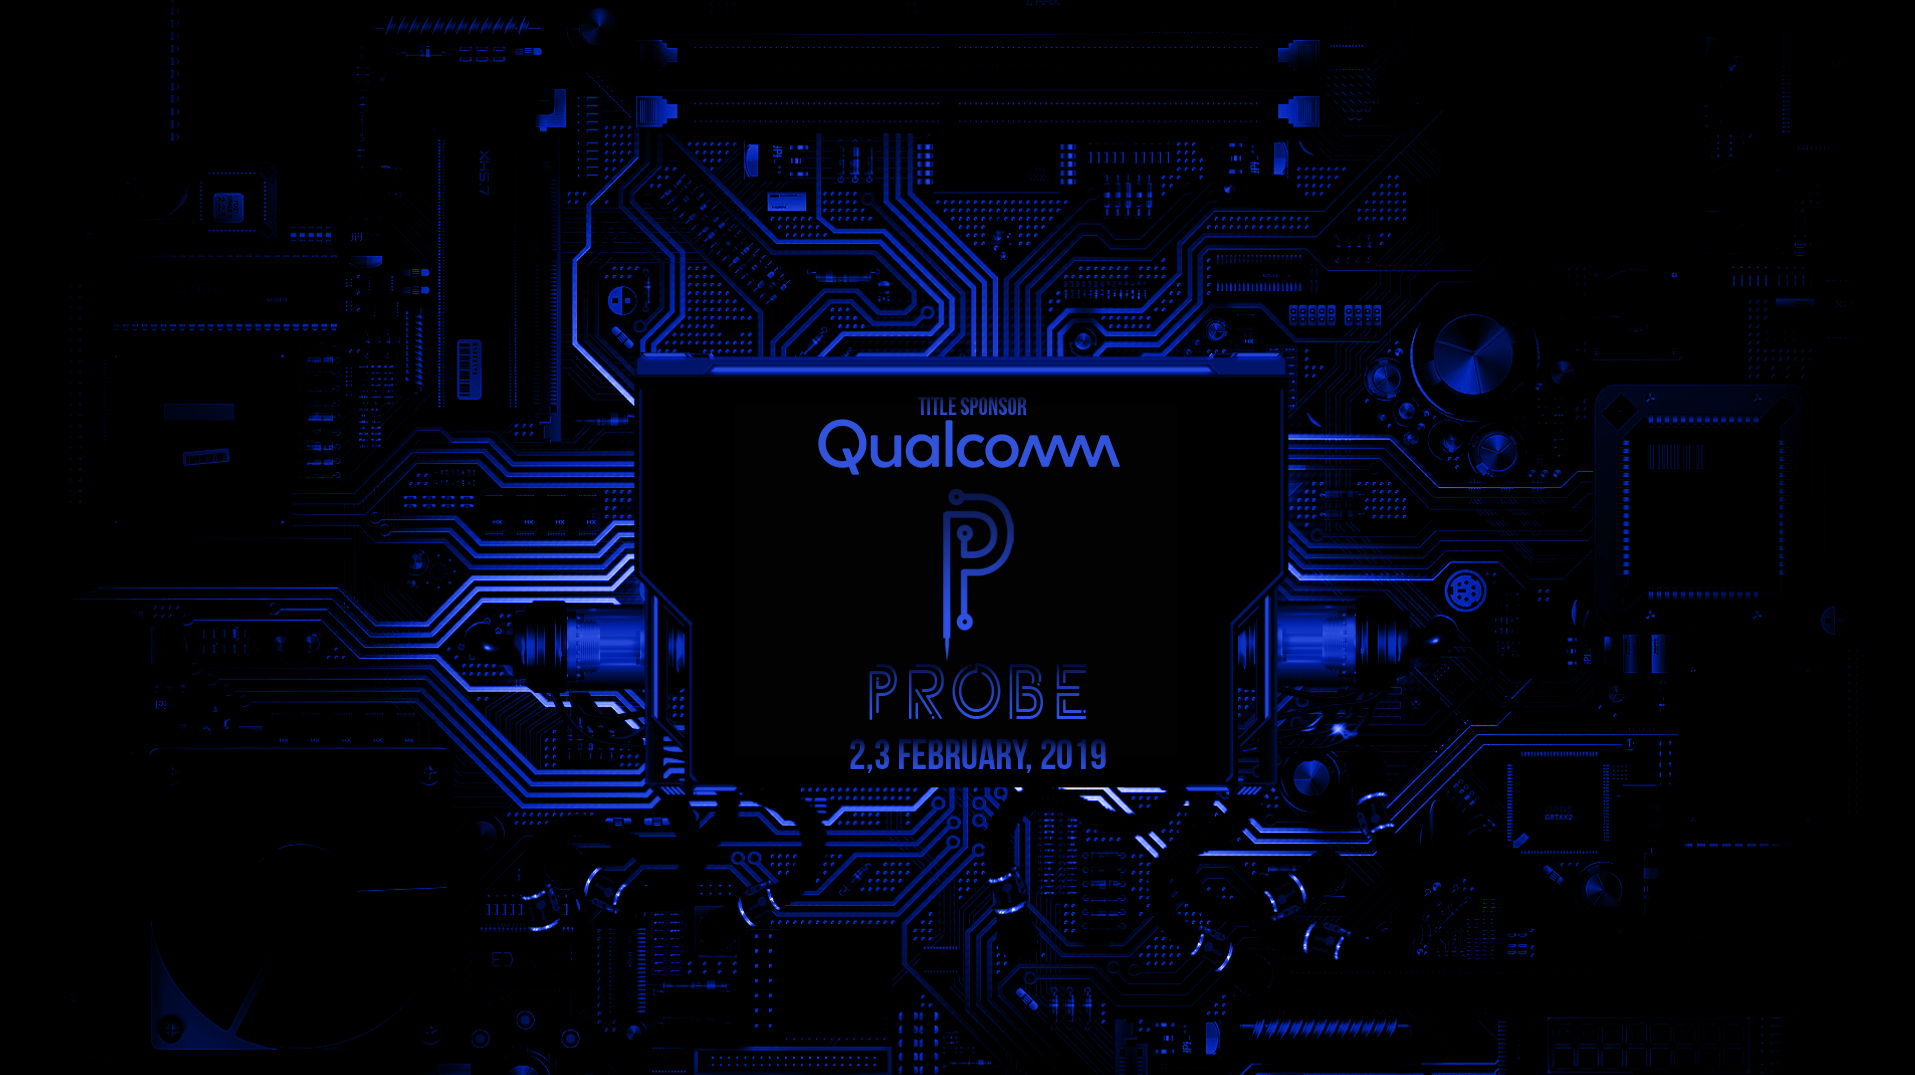
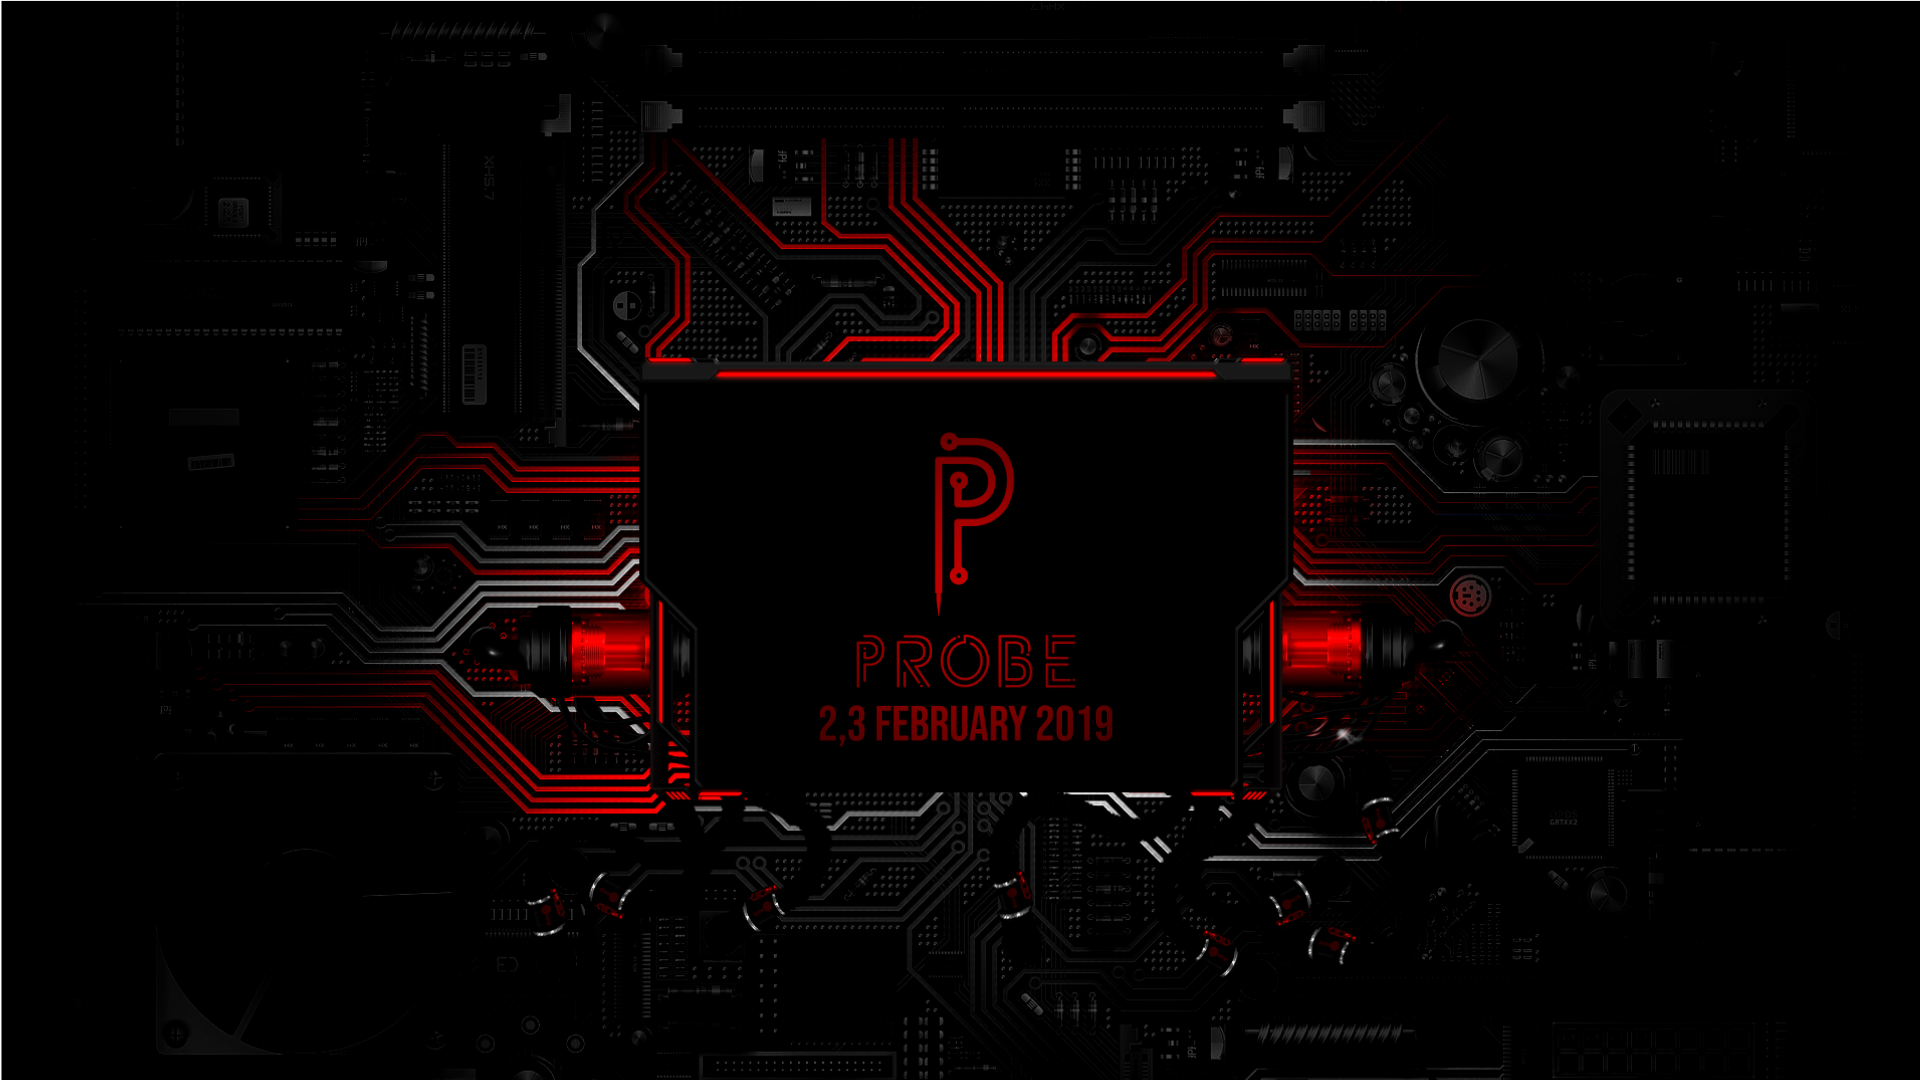
update welcome background img

diff --git a/public/css/main.css b/public/css/main.css
@@ -3421,7 +3421,7 @@ input, select, textarea {
 	#banner {
 		background-attachment: fixed;
 		
-		background-image: url("/images/bg1.png");
+		background-image: url("/images/bg1_q.png");
 		background-position: center center;
 		background-size: cover;
 		box-shadow: 0 0.25em 0.5em 0 rgba(0, 0, 0, 0.25);
